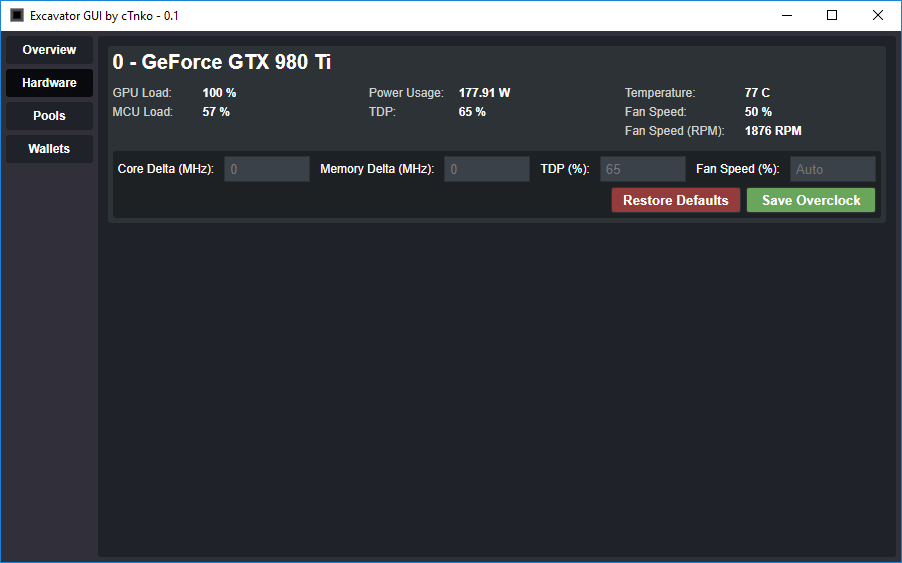
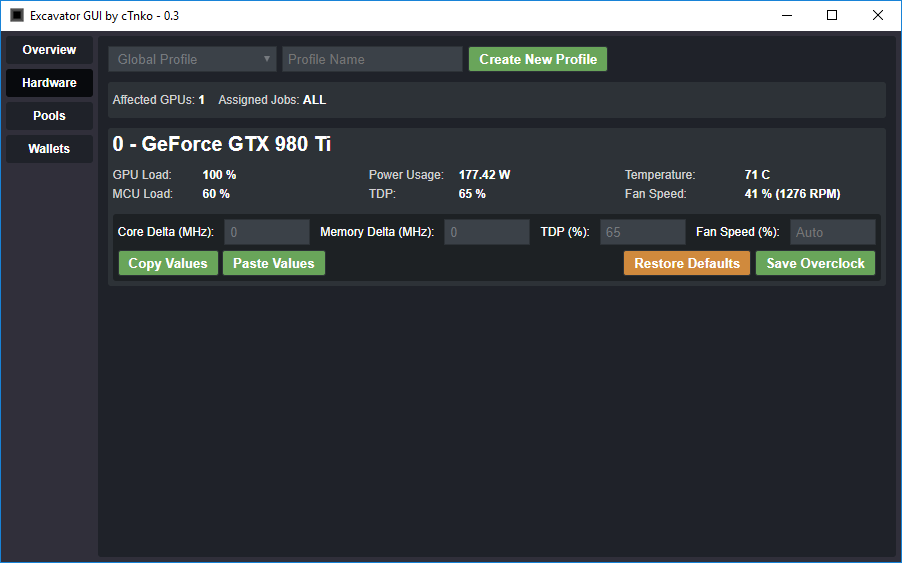
updated readme and screenshots for 0.3

diff --git a/README.md b/README.md
@@ -44,12 +44,15 @@ There will be a clear visual indication in the GUI when the 1% fee will be mined
 If you don't agree with this, please don't use it!<br />
 
 ### TODO List
-- Backup Pools (automatic switch in case pool goes down)
-- Overclocking profiles attached to specific jobs instead of single overclocking setup
 - Better support for AMD cards - i currently don't own an AMD card, so this might take a while, sorry :(
 - Have a feature idea? Let me know through the Issue section [here](https://github.com/cTn-dev/Excavator-GUI/issues)
 
 ### Changelog
+06.07.2017 @ 0.3 - Use it with Excavator version 1.2.9a
+- Added Backup Pools functionality (unlimited amount of backup pools for each job)
+- Added Overclocking Profiles functionality (unlimited amount of profiles)
+- Bugfixes & Small UI enhancements
+
 03.07.2017 @ 0.2 - Use it with Excavator version 1.2.9a
 - Added confirmation dialogs for job/pool/wallet removal
 - Fix Overclocking fan speed always showing as auto
